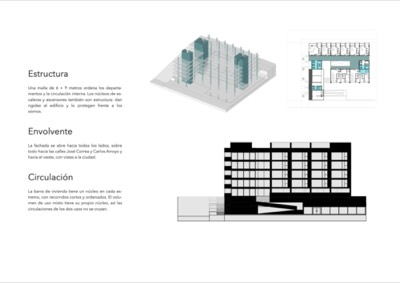
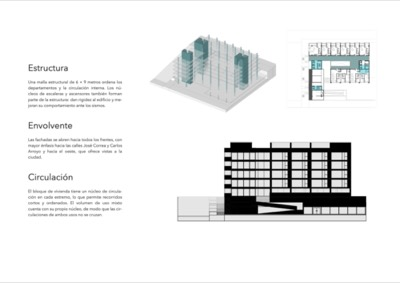
Edificio Nexo: redacción corregida en el resumen, los pies de foto y las láminas de análisis

Changed region(s): [[0.06, 0.2261, 0.3, 0.3958], [0.06, 0.424, 0.3, 0.5654], [0.06, 0.6502, 0.3, 0.7633]]

diff --git a/src/proyectos.js b/src/proyectos.js
@@ -202,12 +202,12 @@ export const disenos = [
     tipo: 'Uso mixto',
     ubicacion: 'Quito',
     anio: 2021,
-    resumen: 'Edificio de uso mixto (vivienda, comercio y oficinas) en la calle José Correa, frente al colegio 24 de Mayo. Una malla estructural de 6 × 9 m ordena los departamentos, dos núcleos de circulación separan la vivienda del resto de usos, y la planta baja se abre hacia la vereda y el barrio.',
+    resumen: 'Edificio de uso mixto en la calle José Correa, frente al colegio 24 de Mayo. Reúne vivienda, comercio, oficinas y espacios de uso común para el barrio. Una malla estructural de 6 × 9 m ordena los departamentos, la vivienda y los demás usos tienen circulaciones independientes, y la planta baja se abre hacia la vereda.',
     portada: '/img/disenos/edificio-nexo.jpg',
     alt: 'Edificio Nexo visto desde la calle José Correa',
     fotos: galeria('edificio-nexo', [
       'Vista desde la calle José Correa',
-      'Vista de la esquina: comercio en planta baja y vivienda arriba',
+      'Vista de la esquina: comercio en la planta baja y vivienda en los pisos superiores',
       'Axonometrías',
       'Análisis: ubicación y uso mixto',
       'Análisis: estructura, envolvente y circulación',
